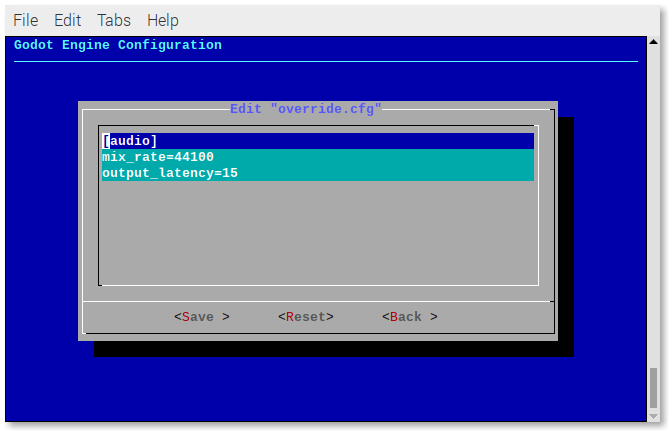
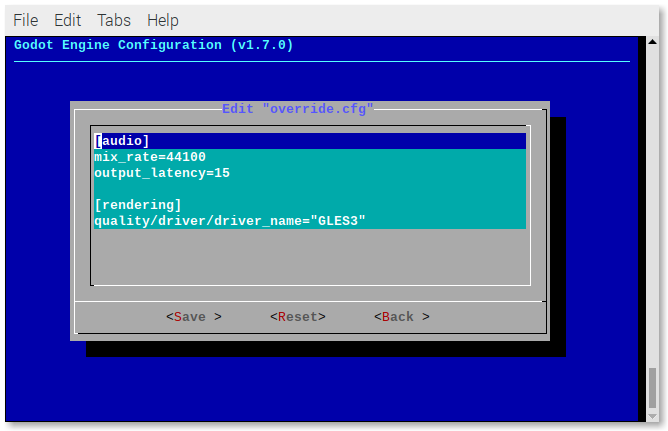
Updated README

diff --git a/README.md b/README.md
@@ -186,17 +186,13 @@ and then go to:
 - Configuration/tools
 - godot-engine
 
-Select **Use a GPIO/Virtual keyboard**.
+Select **GPIO/Virtual keyboard**.
 
 ![Configuration dialog](example-images/gpio-virtual-keyboard-dialog.png)
 
-Select **Yes**.
-
-![GPIO/Virtual keyboard dialog](example-images/gpio-virtual-keyboard-dialog_yesno.png)
-
 You will be prompted with a menu showing all the results from the command `cat /proc/bus/input/devices`. Select the GPIO/Virtual keyboard that you want.
 
-If you want to to reverse that action, follow the same steps and select **No**.
+If you want to to reverse that action, follow the same steps and select **None**.
  
 ## ℹ Troubleshooting
 
@@ -231,15 +227,15 @@ Go to:
 - Configuration/tools
 - godot-engine
 
-Select **Force GLES2 video driver**.
+Select **Video driver**.
 
-![Configuration dialog](example-images/force-gles2-video-driver-dialog.png)
+![Configuration dialog](example-images/video-driver-dialog.png)
 
-Select **Yes**.
+Select **GLES2**.
 
-![Force GLES2 video driver dialog](example-images/force-gles2-video-driver-dialog_yesno.png)
+![Force GLES2 video driver dialog](example-images/select-video-driver-gles2.png)
 
-If you want to to reverse that action, follow the same steps and select **No**.
+If you want to to reverse that action, follow the same steps and select **GLES3**.
 
 ### Audio issues
 
